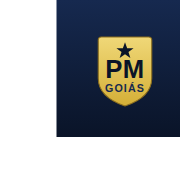
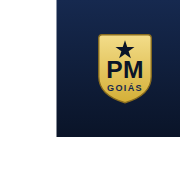
Icone refeito (centralizado) e memoria de progresso com nome + backup
- ICONE: redesenhado simetrico e centralizado (nao fica mais torto);
  regenerados 192/512/180 e cache do service worker para v2
- NOME do aluno: capturado no onboarding e editavel no Perfil; mascote
  passa a chamar o aluno pelo nome
- MEMORIA DE PROGRESSO (Perfil > "Meu progresso"):
  - Salvar backup: baixa progresso-pmgo-<nome>.json (provas, aulas, XP, ofensiva)
  - Restaurar backup: importa um arquivo salvo (com validacao de conteudo)
  - Zerar tudo (com confirmacao)
  Garante nao perder as provas ao trocar de aparelho/limpar o navegador
- Import robusto: rejeita arquivos invalidos (Store.importar valida chaves)

Testado: sintaxe, CSS balanceado, 11 asserts de backup (salvar/zerar/
restaurar/rejeitar invalidos), auditoria de fluxo com 0 erros, screenshots
de onboarding (nome), perfil (nome+backup) e do icone.

Claude-Session: https://claude.ai/code/session_01E4tMXBF8tuUBe4F9xj5SAA

Changed region(s): [[0.5278, 0.1667, 0.8611, 0.6111]]

diff --git a/js/app.js b/js/app.js
@@ -22,8 +22,12 @@ const App = {
       <div class="onboarding-card">
         <div class="ob-mascote">${MASCOTE.emoji}</div>
         <h2>Bem-vindo, futuro Soldado!</h2>
-        <p>Eu sou o <strong>${MASCOTE.nome}</strong> e vou te acompanhar até a farda. 🎖<br>
-        Qual vai ser sua <strong>meta diária</strong>? (dá pra mudar depois no Perfil)</p>
+        <p>Eu sou o <strong>${MASCOTE.nome}</strong> e vou te acompanhar até a farda. 🎖</p>
+        <div class="ob-campo">
+          <label for="ob-nome">Como quer ser chamado(a)?</label>
+          <input id="ob-nome" type="text" maxlength="24" autocomplete="name" placeholder="Seu nome ou nome de guerra" />
+        </div>
+        <p class="ob-meta-titulo">Escolha sua <strong>meta diária</strong> <small>(dá pra mudar depois)</small></p>
         <div class="ob-metas">
           ${META_OPCOES.map((m) => `
             <button class="ob-meta ${m.id === "regular" ? "sugerida" : ""}" data-xp="${m.xp}">
@@ -34,7 +38,10 @@ const App = {
         </div>
       </div>`;
     document.body.appendChild(ov);
+    setTimeout(() => { const i = document.getElementById("ob-nome"); if (i) i.focus(); }, 100);
     ov.querySelectorAll(".ob-meta").forEach((b) => b.addEventListener("click", () => {
+      const nome = (document.getElementById("ob-nome").value || "").trim();
+      Gamify.definirNome(nome);
       Gamify.definirMeta(parseInt(b.dataset.xp, 10));
       Som.levelup(); Confete.disparar(120);
       ov.remove();
@@ -268,6 +275,40 @@ const App = {
     let n = 0;
     Object.values(AULAS).forEach((arr) => arr.forEach((a) => { if (Store.aulaInfo(a.id).dominada) n++; }));
     return n;
+  },
+
+  _esc(s) {
+    return String(s).replace(/[&<>"']/g, (c) => ({ "&": "&amp;", "<": "&lt;", ">": "&gt;", '"': "&quot;", "'": "&#39;" }[c]));
+  },
+
+  _salvarBackup() {
+    const nome = (Gamify.nome() || "aluno").replace(/[^a-zA-Z0-9_-]+/g, "_") || "aluno";
+    const blob = new Blob([Store.exportar()], { type: "application/json" });
+    const url = URL.createObjectURL(blob);
+    const a = document.createElement("a");
+    a.href = url; a.download = `progresso-pmgo-${nome}.json`;
+    document.body.appendChild(a); a.click(); a.remove();
+    URL.revokeObjectURL(url);
+    const st = document.getElementById("backup-status");
+    if (st) st.innerHTML = "✅ Backup salvo! Guarde o arquivo — é a sua garantia de não perder o progresso.";
+  },
+
+  _restaurarBackup(file) {
+    const st = document.getElementById("backup-status");
+    if (!file) return;
+    const reader = new FileReader();
+    reader.onload = () => {
+      if (Store.importar(reader.result)) {
+        Som.levelup(); Confete.disparar(120);
+        if (st) st.innerHTML = "✅ Progresso restaurado com sucesso!";
+        setTimeout(() => { this.renderHud(); this.telaPerfil(); }, 400);
+      } else {
+        Som.erro();
+        if (st) st.innerHTML = "❌ Arquivo inválido. Selecione um backup gerado pelo Estudo PMGO.";
+      }
+    };
+    reader.onerror = () => { if (st) st.innerHTML = "❌ Não foi possível ler o arquivo."; };
+    reader.readAsText(file);
   },
 
   /* ================================================================== */
@@ -1173,9 +1214,12 @@ const App = {
     const desbloqueadas = Object.keys(g.conquistas).length;
     const acerto = g.stats.respondidas ? Math.round((g.stats.acertos / g.stats.respondidas) * 100) : 0;
 
+    const nome = Gamify.nome();
     this.el.innerHTML = `
       <div class="perfil-hero">
         <div class="perfil-brasao">${p.atual.simbolo}</div>
+        <div class="perfil-nome-grande">${nome ? this._esc(nome) : "Defina seu nome"}
+          <button class="editar-nome" id="edit-nome" title="Editar nome">✏</button></div>
         <div class="perfil-patente">${p.atual.nome}</div>
         <div class="perfil-xp">${g.xp} XP total</div>
         <div class="perfil-prog">
@@ -1254,8 +1298,22 @@ const App = {
           </div>`).join("")}
       </div>
 
-      <div class="acoes-materia">
+      <h2 class="secao-titulo">💾 Meu progresso</h2>
+      <div class="progresso-box">
+        <p>Seu progresso (provas, aulas, XP, ofensiva) é <strong>salvo automaticamente</strong> neste
+        navegador. Para não perder ao trocar de aparelho ou limpar o histórico, guarde um
+        <strong>backup</strong> e restaure quando quiser.</p>
+        <div class="progresso-acoes">
+          <button class="btn primario" id="salvar-backup">⬇ Salvar backup</button>
+          <button class="btn" id="restaurar-backup">⬆ Restaurar backup</button>
+          <input type="file" id="arquivo-backup" accept="application/json,.json" hidden />
+        </div>
+        <div class="progresso-status" id="backup-status"></div>
+      </div>
+
+      <div class="acoes-materia" style="margin-top:20px">
         <button class="btn" id="toggle-som">${Gamify.somAtivo() ? "🔊 Som ligado" : "🔇 Som desligado"}</button>
+        <button class="btn perigo" id="zerar-tudo">🗑 Zerar tudo</button>
       </div>
     `;
     document.getElementById("toggle-som").addEventListener("click", (e) => {
@@ -1263,6 +1321,22 @@ const App = {
       e.target.textContent = on ? "🔊 Som ligado" : "🔇 Som desligado";
       if (on) Som.acerto();
       this.renderHud();
+    });
+    document.getElementById("edit-nome").addEventListener("click", () => {
+      const atual = Gamify.nome();
+      const n = window.prompt("Como quer ser chamado(a)?", atual);
+      if (n !== null) { Gamify.definirNome(n.trim()); Som.acerto(); this.telaPerfil(); }
+    });
+    document.getElementById("salvar-backup").addEventListener("click", () => this._salvarBackup());
+    const inputBk = document.getElementById("arquivo-backup");
+    document.getElementById("restaurar-backup").addEventListener("click", () => inputBk.click());
+    inputBk.addEventListener("change", (e) => this._restaurarBackup(e.target.files[0]));
+    document.getElementById("zerar-tudo").addEventListener("click", () => {
+      if (window.confirm("Isso apaga TODO o seu progresso (provas, XP, ofensiva). Tem certeza?\nDica: salve um backup antes.")) {
+        Store.resetar();
+        try { const d = Store.carregar(); d.gamify = Gamify._default(); Store.salvar(); } catch (err) {}
+        location.reload ? location.reload() : this.navegar("inicio");
+      }
     });
     const pd = document.getElementById("perfil-desafio");
     if (pd) pd.addEventListener("click", () => { this.materiaSelecionada = Gamify.desafioHoje().materiaId; this.navegar("questoes"); });

diff --git a/js/gamify.js b/js/gamify.js
@@ -97,6 +97,7 @@ const Gamify = {
   _default() {
     return {
       xp: 0,
+      nome: "",          // nome/guerra do aluno
       streak: { count: 0, ultimoDia: null },
       dia: { data: null, xp: 0, freezeAward: false },
       metaXp: 50,        // meta diária escolhida
@@ -120,9 +121,12 @@ const Gamify = {
     if (d.gamify.metaXp == null) d.gamify.metaXp = def.metaXp;
     if (d.gamify.onboarded == null) d.gamify.onboarded = def.onboarded;
     if (d.gamify.freeze == null) d.gamify.freeze = def.freeze;
+    if (d.gamify.nome == null) d.gamify.nome = def.nome;
     if (!d.gamify.dia) d.gamify.dia = def.dia;
     return d.gamify;
   },
+  nome() { return this.estado().nome || ""; },
+  definirNome(n) { const g = this.estado(); g.nome = (n || "").slice(0, 24); this._salvar(); },
   _salvar() { Store.salvar(); },
 
   /* ---- Patente / nível ---- */
@@ -227,9 +231,10 @@ const Gamify = {
   mascoteFala() {
     const g = this.estado();
     const meta = this.metaDiaria();
-    if (meta.batida) return `Meta batida hoje! Ofensiva de ${g.streak.count} dia(s). Orgulho da tropa! 🔥`;
-    if (g.streak.count >= 3) return `${g.streak.count} dias seguidos! Não quebre a ofensiva — bora bater a meta.`;
-    if (g.xp === 0) return "Bem-vindo, recruta! Responda sua primeira questão e comece a subir de patente.";
+    const nome = g.nome ? ", " + g.nome.split(" ")[0] : "";
+    if (meta.batida) return `Meta batida hoje${nome}! Ofensiva de ${g.streak.count} dia(s). Orgulho da tropa! 🔥`;
+    if (g.streak.count >= 3) return `${g.streak.count} dias seguidos${nome}! Não quebre a ofensiva — bora bater a meta.`;
+    if (g.xp === 0) return `Bem-vindo${nome || ", recruta"}! Responda sua primeira questão e comece a subir de patente.`;
     return this.fraseDoDia();
   },
 

diff --git a/css/styles.css b/css/styles.css
@@ -550,6 +550,28 @@ body {
   border-radius: 22px; font-size: 13px; box-shadow: var(--sombra); animation: entraToast .3s; }
 
 /* =====================================================================
+   NOME DO ALUNO + BACKUP DE PROGRESSO
+   ===================================================================== */
+.ob-campo { text-align: left; margin: 4px 0 16px; }
+.ob-campo label { display: block; font-size: 13px; color: var(--texto-suave); margin-bottom: 6px; }
+.ob-campo input { width: 100%; background: var(--azul-800); color: var(--texto); border: 2px solid var(--borda);
+  border-radius: 12px; padding: 13px 14px; font-size: 16px; }
+.ob-campo input:focus { border-color: var(--dourado); outline: none; }
+.ob-meta-titulo { color: var(--texto-suave); margin-bottom: 10px; }
+.ob-meta-titulo small { opacity: .8; }
+
+.perfil-nome-grande { font-size: 26px; font-weight: 800; color: var(--texto); margin-top: 4px; }
+.editar-nome { background: none; border: none; cursor: pointer; font-size: 16px; opacity: .7; }
+.editar-nome:hover { opacity: 1; }
+.perfil-hero .perfil-patente { font-size: 14px; color: var(--dourado-claro); }
+
+.progresso-box { background: var(--card-bg); border: 1px solid var(--borda); border-radius: 14px; padding: 16px 18px; }
+.progresso-box p { font-size: 14px; color: var(--texto-suave); margin-bottom: 12px; }
+.progresso-box strong { color: var(--texto); }
+.progresso-acoes { display: flex; gap: 10px; flex-wrap: wrap; }
+.progresso-status { font-size: 13px; color: var(--dourado-claro); margin-top: 10px; min-height: 18px; }
+
+/* =====================================================================
    ACESSIBILIDADE E POLIMENTO
    ===================================================================== */
 /* Foco visível por teclado */

diff --git a/js/storage.js b/js/storage.js
@@ -115,7 +115,10 @@ const Store = {
 
   importar(json) {
     try {
-      this._dados = JSON.parse(json);
+      const obj = JSON.parse(json);
+      if (!obj || typeof obj !== "object" ||
+          (!("gamify" in obj) && !("simulados" in obj) && !("cards" in obj))) return false;
+      this._dados = obj;
       this.salvar();
       return true;
     } catch (e) {

diff --git a/sw.js b/sw.js
@@ -1,7 +1,7 @@
 /* Service Worker — Estudo PMGO (PWA offline)
    Cacheia os arquivos do app para funcionar sem internet.
    Ao alterar arquivos, suba a versão do CACHE para forçar atualização. */
-const CACHE = "pmgo-v1";
+const CACHE = "pmgo-v2";
 const ASSETS = [
   "./",
   "./index.html",
